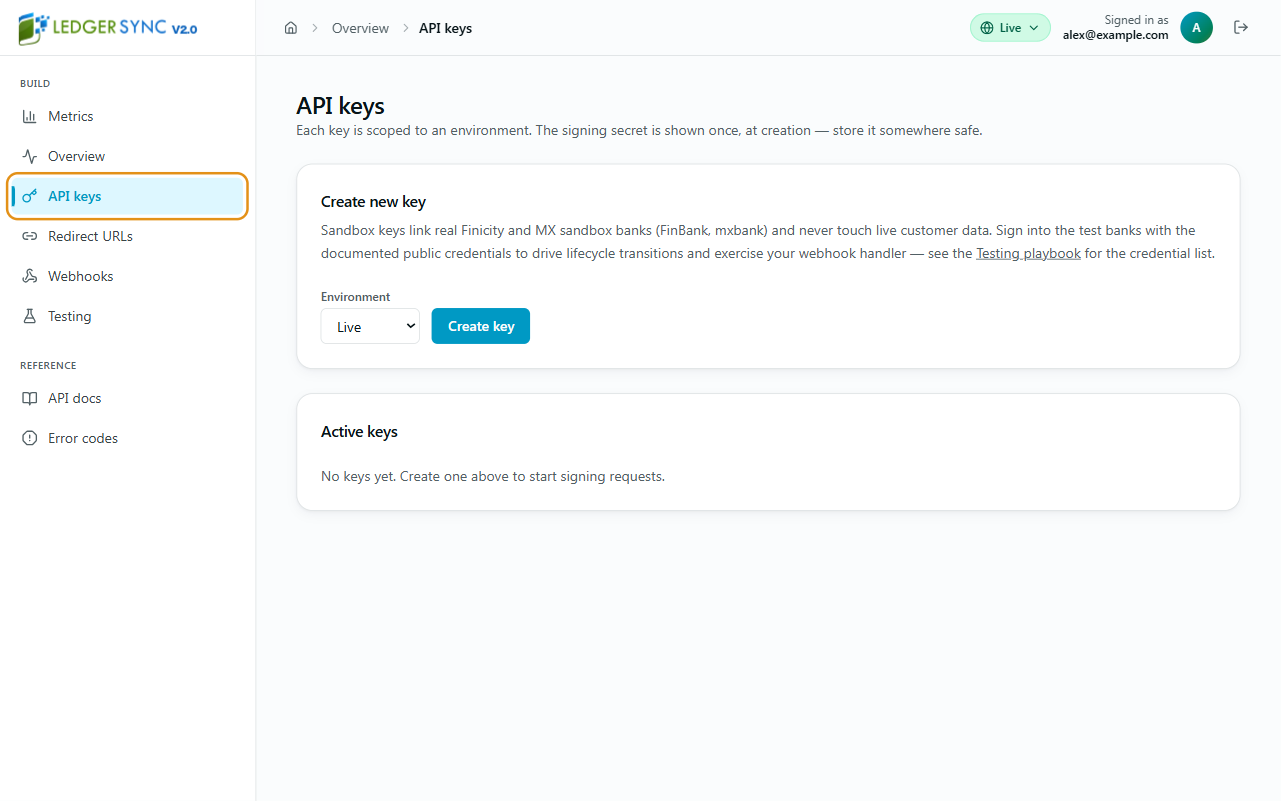
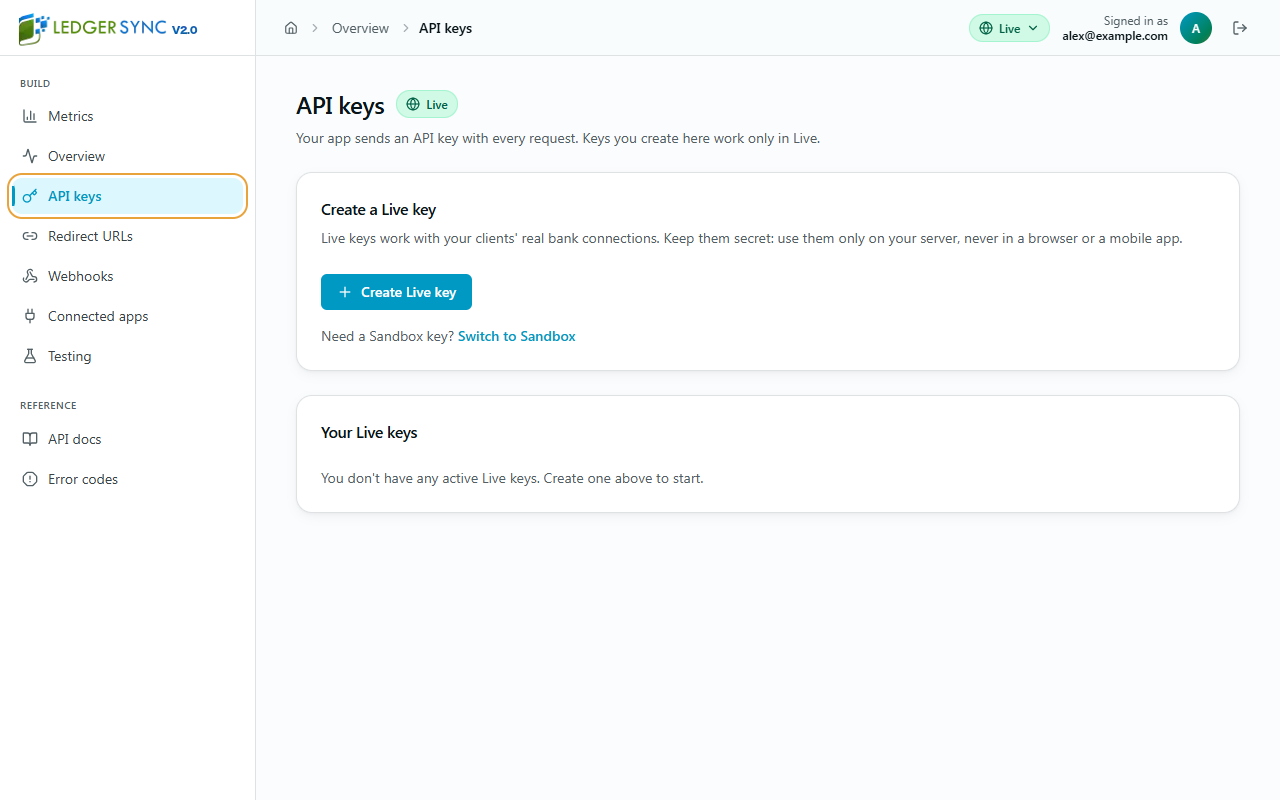
docs: describe creating a live key with the environment chosen at the top right of the portal

diff --git a/images/build-with-ai/README.md b/images/build-with-ai/README.md
@@ -5,8 +5,8 @@ Captured 2026-09-08 using the existing application UI rendered locally with exam
 All portal screenshots render the original JSX from `lsv2_api_v3_portal/app/dashboard/layout.tsx`, including the complete sidebar, logo, breadcrumb, environment selector, account header, and content area. Authentication and data are supplied locally; the example account is Alex, alex@example.com.
 
 - `request-live-access.png`: original `StatusPanel` and `StatusCard` from `app/dashboard/page.tsx`, with Live status NONE. Overview is selected in the sidebar. The Live selector and Request access button are highlighted.
-- `api-keys-menu.png`: original `app/dashboard/api-keys/page.tsx` layout and `ApiKeysClient`, with an empty key list and Live selected. API keys is highlighted under Build in the sidebar.
-- `create-live-key.png`: the same full API keys screen, highlighting the form's Environment selector and Create key button. No key was created.
+- `api-keys-menu.png`: original `app/dashboard/api-keys/page.tsx` layout and `ApiKeysClient`, with an empty key list and Live selected. API keys is highlighted under Build in the sidebar. Recaptured 2026-10-08 when the page dropped its own Environment menu, at the same size and with the same example account, using the page's own components and the portal's CSS inside a local copy of the dashboard layout.
+- `create-live-key.png`: the same full API keys screen, highlighting the Live selector at the top right and the Create Live key button. No key was created. Recaptured 2026-10-08: the page now creates keys for the environment selected at the top right, so there is no Environment menu to set.
 - `find-your-bank.png`: full `lsv2_api_v3/src/main/resources/pages/connect-session.html` page, using a local example configuration and institution-search response showing Chase. No bank connection was created.
 
 Portal captures use the portal's compiled CSS and original navigation components. Routing, authentication, and account/search data are supplied by the local capture harness. No real account identifiers, API credentials, or bank credentials appear in these images.
